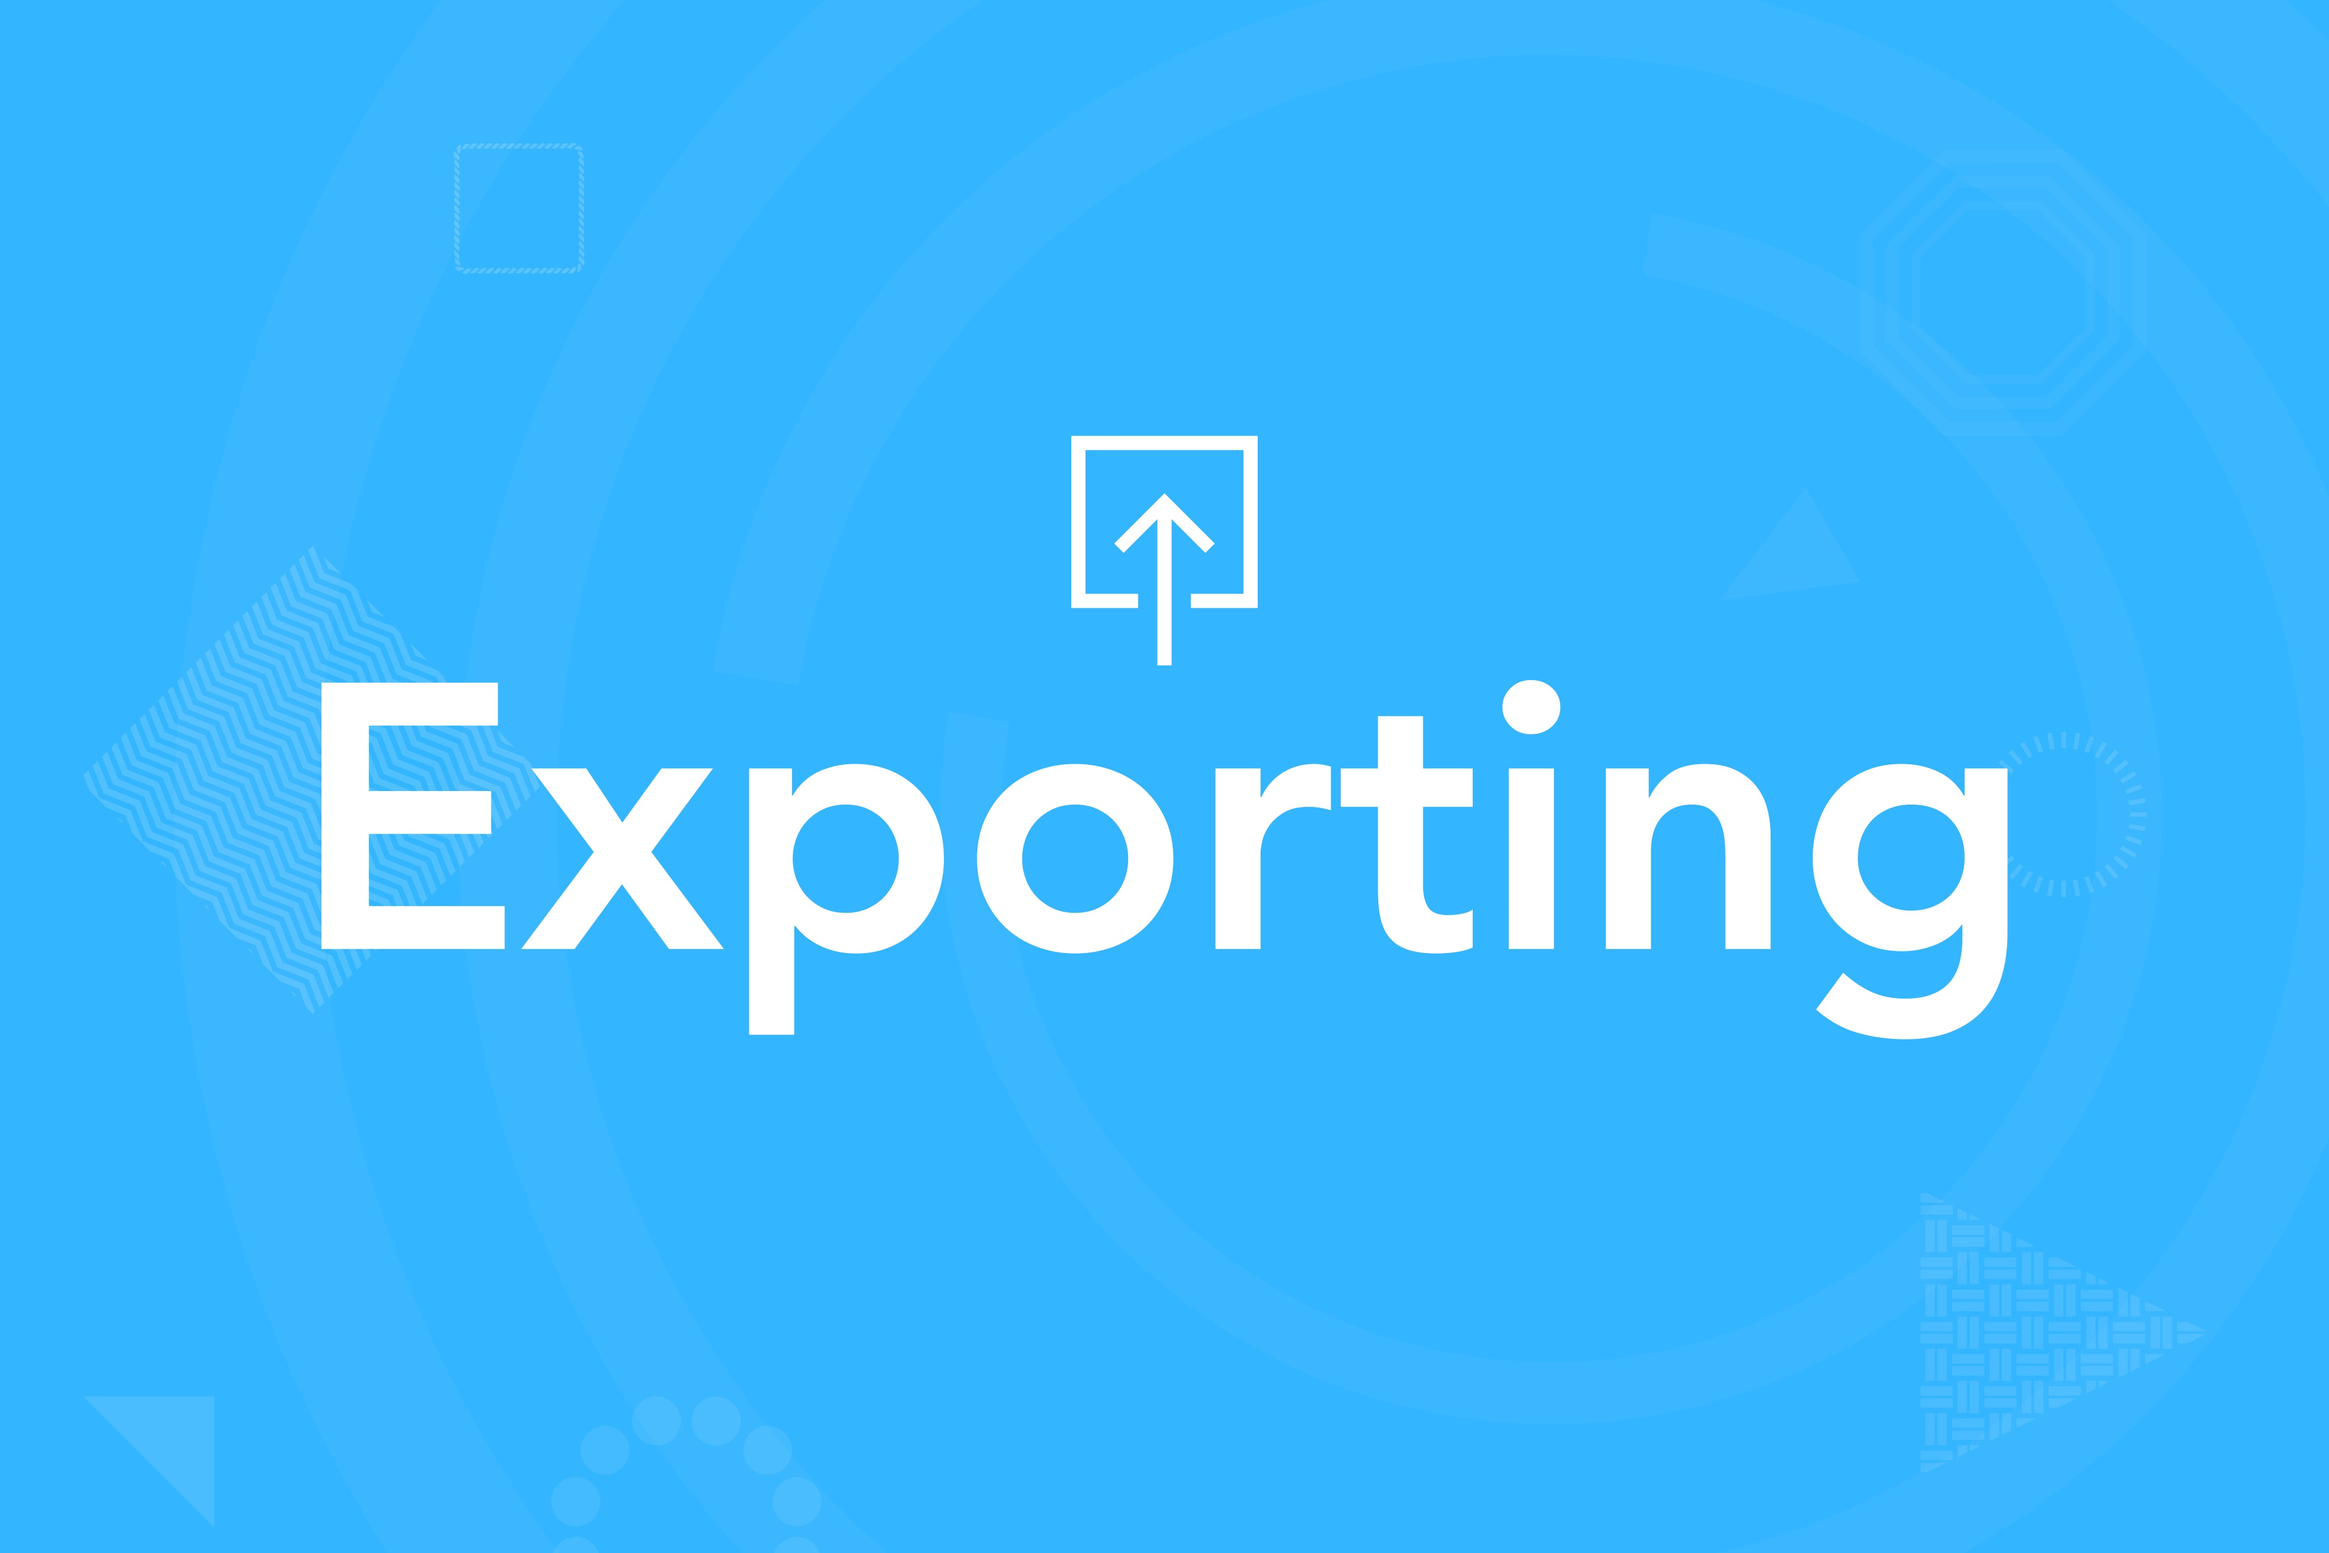
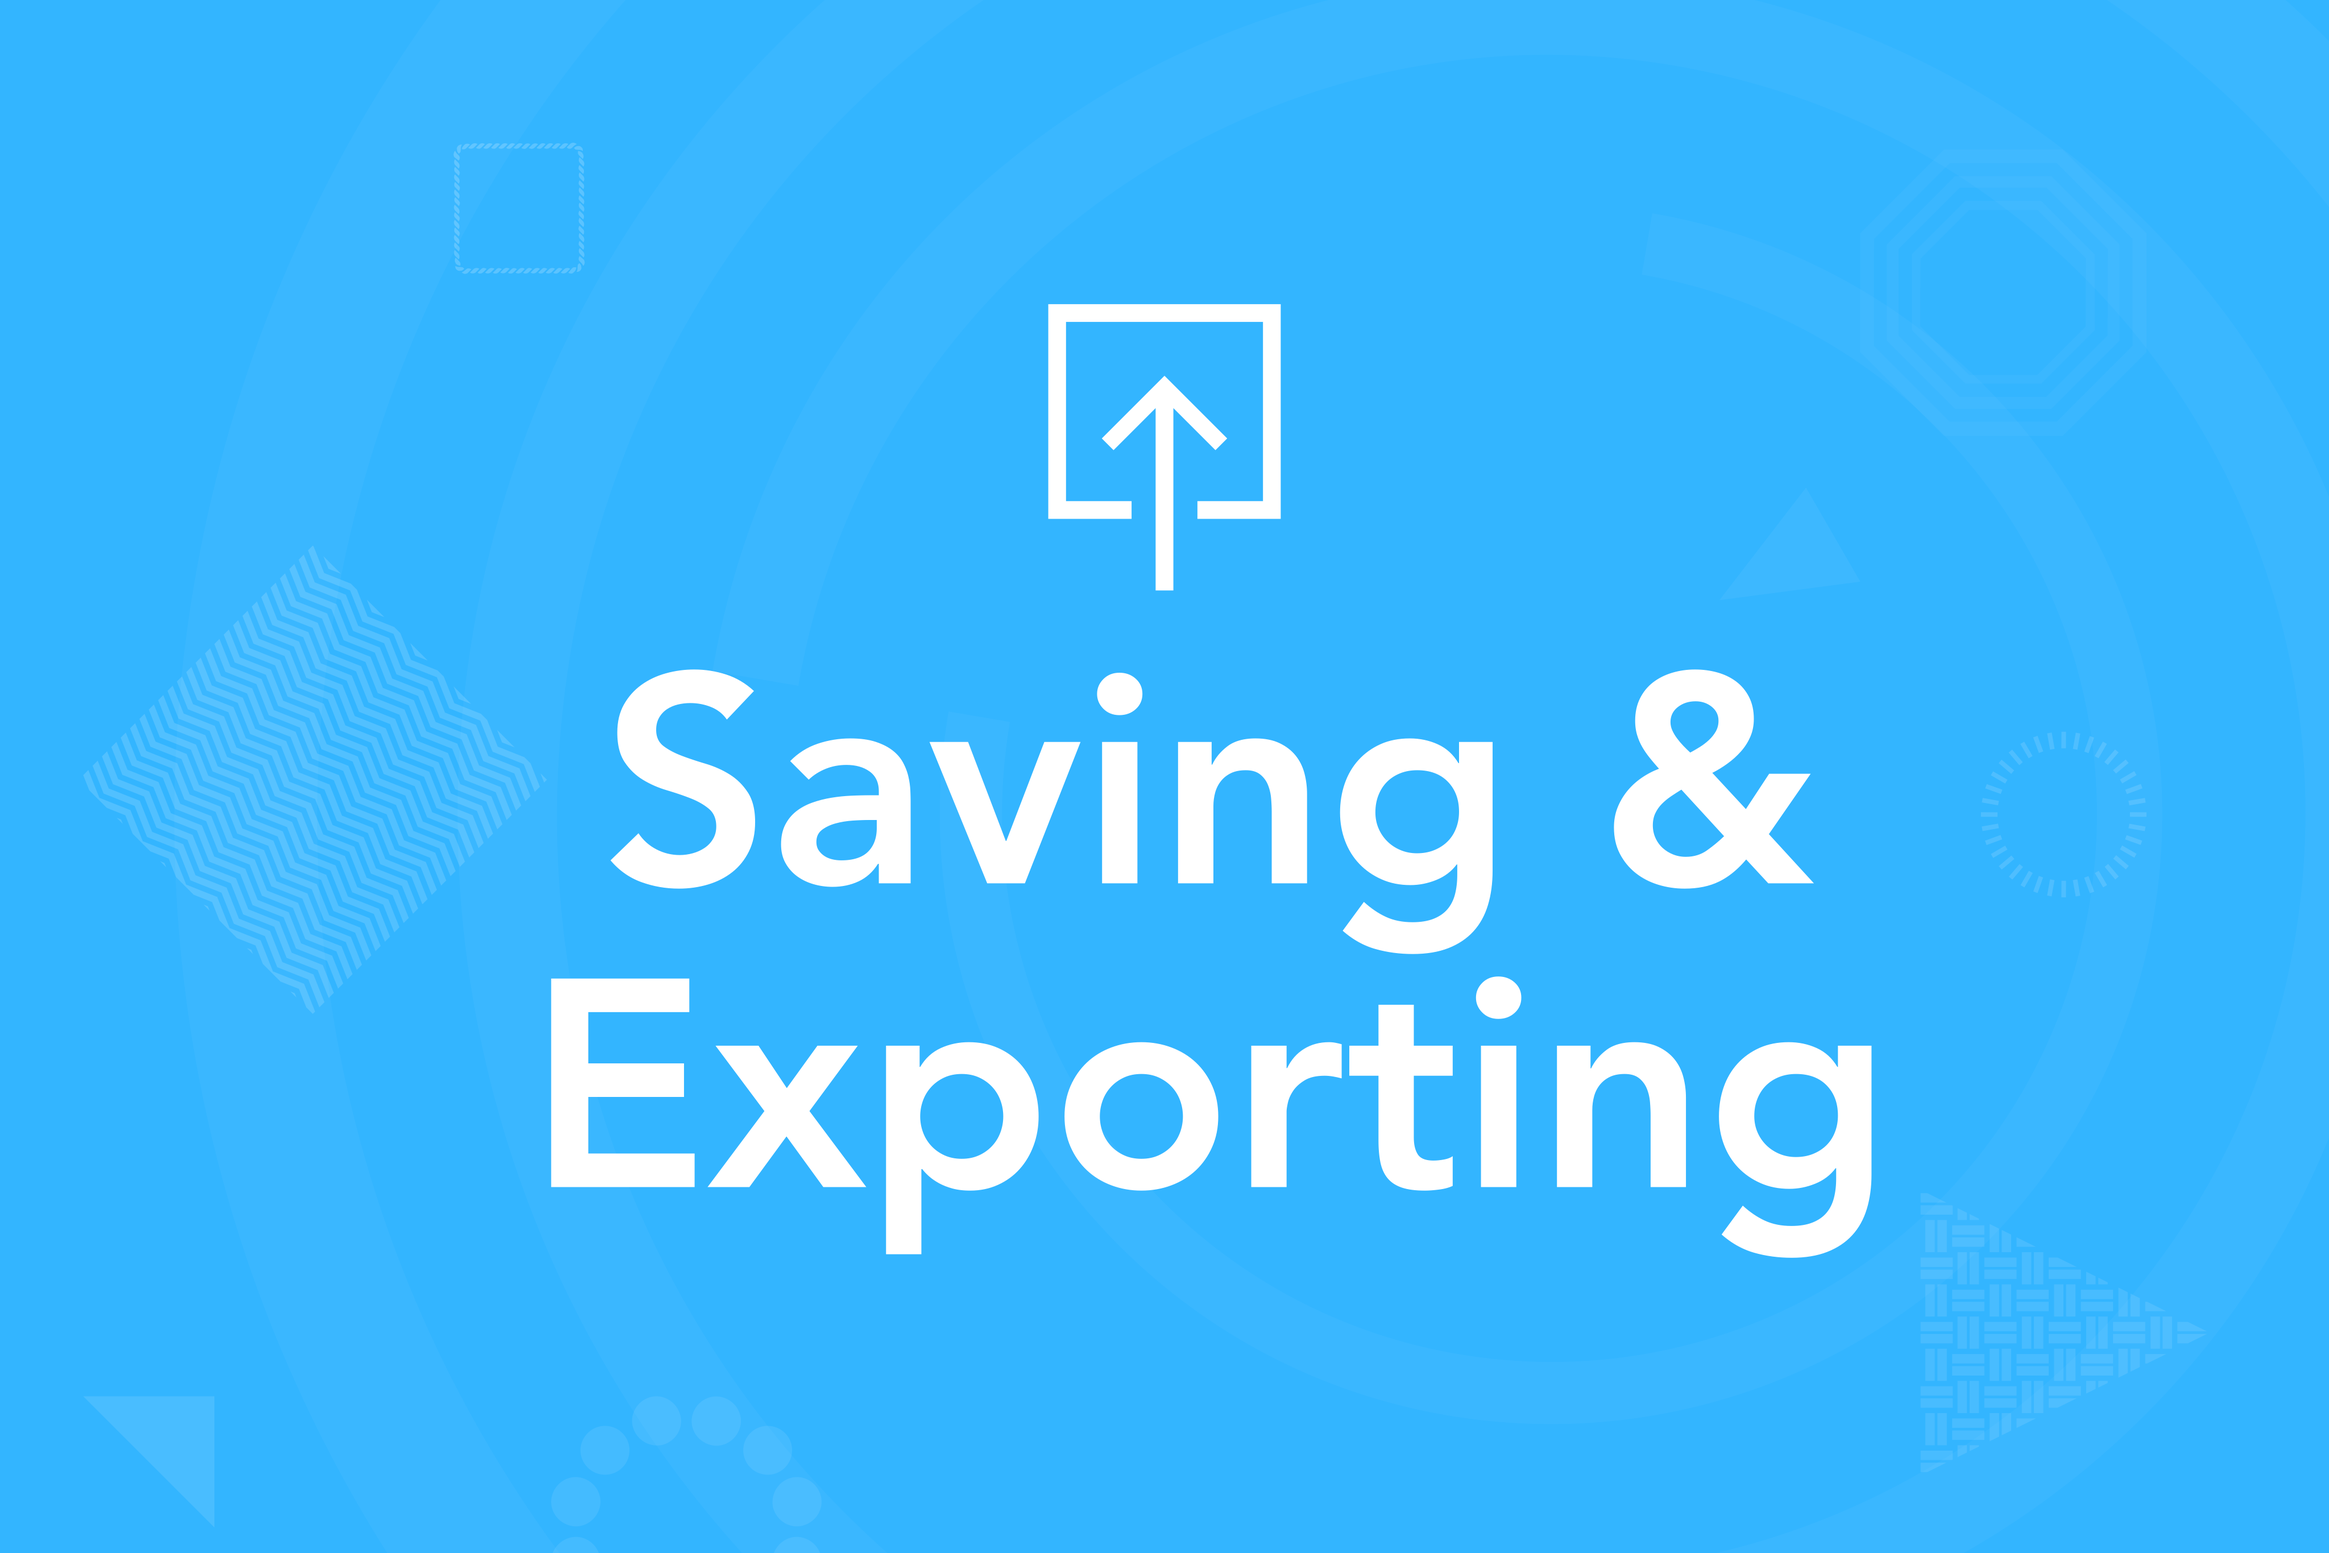
saving and exporting update

Changed region(s): [[0.125, 0.1867, 0.875, 0.8092]]

diff --git a/pages/exporting.html b/pages/exporting.html
@@ -28,7 +28,7 @@
   <!-- Theme CSS -->
   <link rel="stylesheet" href="../assets/css/theme.min.css">
   <meta http-equiv="X-UA-Compatible" content="IE=edge">
-  <title>Exporting</title>
+  <title>Saving & Exporting</title>
 </head>
 
 <body>
@@ -164,7 +164,7 @@
       <div class="row align-items-center">
        <div class = "col-sm-12 col-xl-12 col-md-12 col-lg-12">   
 
-          <h1 class="text-white display-4 font-weight-semi-bold">Exporting</h1>
+          <h1 class="text-white display-4 font-weight-semi-bold">Saving & Exporting</h1>
           <p class="text-white mb-6 lead">
             Properly exporting your content into a PDF ensures that it remains in an accessible format. 
 
